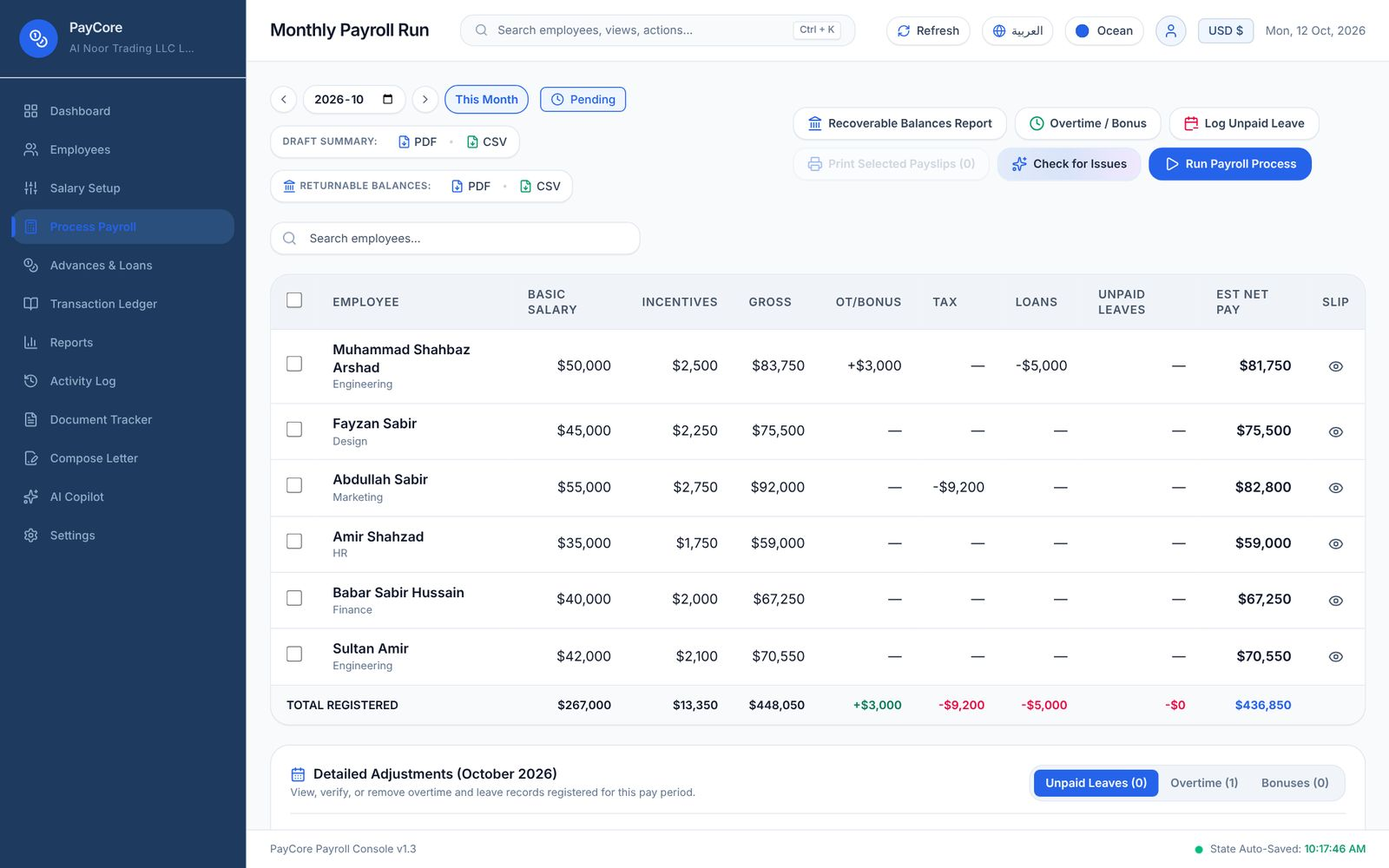
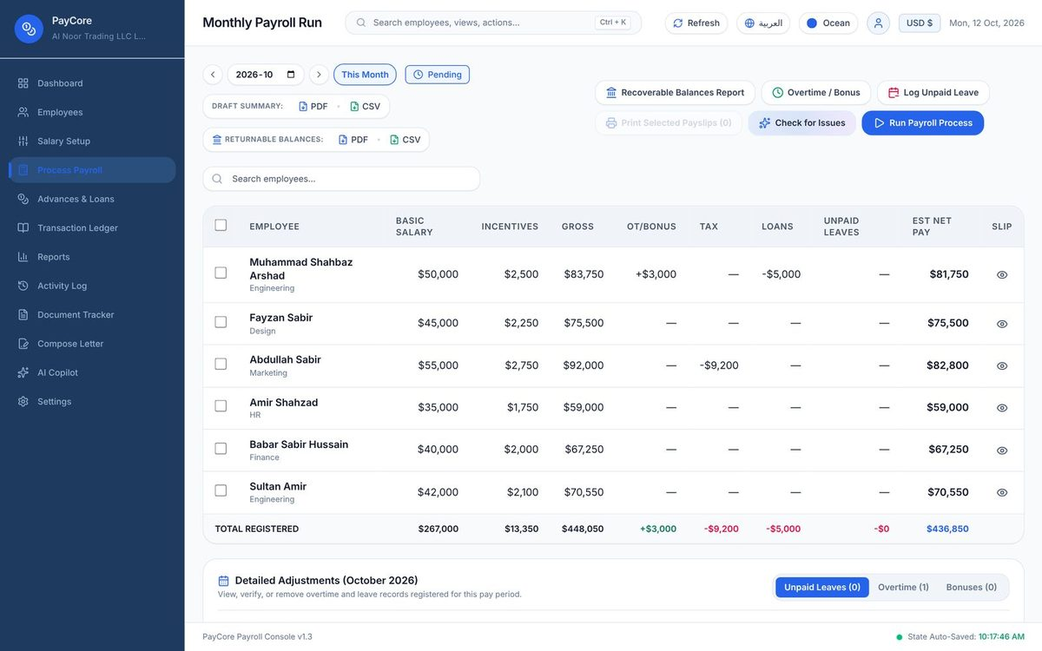
SEO and accessibility fixes from site audit
- Headline words no longer run together in the page text
- Shorter meta description (142 chars) and 'offline payroll' in visible copy
- Stronger colour contrast on stats and tags
- Proper table roles on the comparison section
- Screenshots resized to 1200px (about 40% smaller)

Claude-Session: https://claude.ai/code/session_019S9mUapGrVUUrH4j8TmuQz

diff --git a/index.html b/index.html
@@ -4,7 +4,7 @@
 <meta charset="utf-8">
 <meta name="viewport" content="width=device-width, initial-scale=1, viewport-fit=cover">
 <title>PayCore – Offline Payroll Software for Windows | One-Time License</title>
-<meta name="description" content="PayCore is payroll software for Windows with a one-time license. Calculate salaries, loans and payslips for unlimited employees. Works offline, with full Arabic support.">
+<meta name="description" content="Offline payroll software for Windows with a one-time license. Salaries, loans and payslips for unlimited employees, with full Arabic support.">
 <meta name="robots" content="index, follow, max-image-preview:large">
 <link rel="canonical" href="https://paycoresalarysystem.com/">
 <meta name="theme-color" content="#2563eb">
@@ -15,7 +15,7 @@
 <meta property="og:type" content="website">
 <meta property="og:site_name" content="PayCore Payroll">
 <meta property="og:title" content="PayCore: payroll software without the monthly bill">
-<meta property="og:description" content="PayCore is payroll software for Windows with a one-time license. Calculate salaries, loans and payslips for unlimited employees. Works offline, with full Arabic support.">
+<meta property="og:description" content="Offline payroll software for Windows with a one-time license. Salaries, loans and payslips for unlimited employees, with full Arabic support.">
 <meta property="og:url" content="https://paycoresalarysystem.com/">
 <meta property="og:image" content="https://paycoresalarysystem.com/og-image.png">
 <meta property="og:image:width" content="1200">
@@ -24,7 +24,7 @@
 <meta property="og:locale" content="en_US">
 <meta name="twitter:card" content="summary_large_image">
 <meta name="twitter:title" content="PayCore: payroll software without the monthly bill">
-<meta name="twitter:description" content="PayCore is payroll software for Windows with a one-time license. Calculate salaries, loans and payslips for unlimited employees. Works offline, with full Arabic support.">
+<meta name="twitter:description" content="Offline payroll software for Windows with a one-time license. Salaries, loans and payslips for unlimited employees, with full Arabic support.">
 <meta name="twitter:image" content="https://paycoresalarysystem.com/og-image.png">
 
 <link rel="preload" as="image" href="images/paycore-payroll-dashboard.jpg">
@@ -43,7 +43,7 @@
    "@type": "SoftwareApplication",
    "@id": "https://paycoresalarysystem.com/#app",
    "name": "PayCore Payroll",
-   "description": "PayCore is payroll software for Windows with a one-time license. Calculate salaries, loans and payslips for unlimited employees. Works offline, with full Arabic support.",
+   "description": "Offline payroll software for Windows with a one-time license. Salaries, loans and payslips for unlimited employees, with full Arabic support.",
    "url": "https://paycoresalarysystem.com/",
    "applicationCategory": "BusinessApplication",
    "applicationSubCategory": "Payroll software",
@@ -176,7 +176,7 @@ h3{font-size:20px;font-weight:800;letter-spacing:-.01em}
 p{margin:0}
 .grad-text{background:var(--grad);background-size:200% auto;-webkit-background-clip:text;background-clip:text;color:transparent;animation:sheen 6s linear infinite}
 @keyframes sheen{to{background-position:200% center}}
-.eyebrow{display:inline-flex;align-items:center;gap:8px;font:600 13px/1 var(--f-mono);letter-spacing:.1em;text-transform:uppercase;color:var(--blue);background:#e8efff;border:1px solid #d3e0ff;padding:8px 12px;border-radius:999px;justify-self:start}
+.eyebrow{display:inline-flex;align-items:center;gap:8px;font:600 13px/1 var(--f-mono);letter-spacing:.1em;text-transform:uppercase;color:#1d4ed8;background:#e8efff;border:1px solid #d3e0ff;padding:8px 12px;border-radius:999px;justify-self:start}
 .eyebrow i{width:7px;height:7px;border-radius:50%;background:var(--mint);box-shadow:0 0 0 0 rgba(16,185,129,.6);animation:ping 2s infinite}
 @keyframes ping{70%{box-shadow:0 0 0 8px rgba(16,185,129,0)}100%{box-shadow:0 0 0 0 rgba(16,185,129,0)}}
 .lede{color:var(--muted);font-size:19px;max-width:58ch}
@@ -278,7 +278,7 @@ p{margin:0}
 @media (max-width:820px){.stats{grid-template-columns:repeat(2,minmax(0,1fr))}}
 .stat{background:#fff;border:1px solid var(--line);border-radius:var(--r);padding:24px;display:grid;gap:6px;min-width:0}
 .stat .num{font:800 clamp(38px,5vw,56px)/1 var(--f-display);letter-spacing:-.03em;font-variant-numeric:tabular-nums}
-.stat:nth-child(1) .num{color:var(--mint)}.stat:nth-child(2) .num{color:var(--blue)}.stat:nth-child(3) .num{color:#0ea5e9}.stat:nth-child(4) .num{color:var(--sun)}
+.stat:nth-child(1) .num{color:#047857}.stat:nth-child(2) .num{color:var(--blue)}.stat:nth-child(3) .num{color:#0369a1}.stat:nth-child(4) .num{color:#b45309}
 .stat p{color:var(--muted);font-size:15px;font-weight:500}
 
 section{padding-block:100px}
@@ -324,8 +324,8 @@ section{padding-block:100px}
 @property --a{syntax:"<angle>";inherits:false;initial-value:0deg}
 @keyframes spin{to{--a:360deg}}
 .dl-in{background:#fff;border-radius:22px;padding:30px;display:grid;gap:14px;align-content:start;height:100%}
-.dl .tag{justify-self:start;font:600 12px/1 var(--f-mono);letter-spacing:.08em;text-transform:uppercase;padding:7px 10px;border-radius:999px;background:#e8efff;color:var(--blue)}
-.dl:not(.rec) .tag{background:#ecfdf5;color:var(--mint)}
+.dl .tag{justify-self:start;font:600 12px/1 var(--f-mono);letter-spacing:.08em;text-transform:uppercase;padding:7px 10px;border-radius:999px;background:#e8efff;color:#1d4ed8}
+.dl:not(.rec) .tag{background:#ecfdf5;color:#047857}
 .dl .top{display:flex;align-items:center;gap:14px}
 .dl .win{width:50px;height:50px;border-radius:14px;display:grid;place-items:center;background:#eef4ff}
 .dl .win svg{width:26px;height:26px}
@@ -396,6 +396,7 @@ section{padding-block:100px}
 .final .btn.btn-ghost-w:hover{background:rgba(255,255,255,.24);transform:translateY(-2px)}
 .btn-soft svg{width:18px;height:18px}
 /* comparison */
+.sr{position:absolute;width:1px;height:1px;overflow:hidden;clip:rect(0 0 0 0);white-space:nowrap}
 #compare{padding-top:30px}
 .cmp{background:#fff;border:1px solid var(--line);border-radius:24px;overflow:hidden;box-shadow:0 30px 60px -40px rgba(37,99,235,.4)}
 .cmp-row{display:grid;grid-template-columns:1.1fr 1fr 1fr;align-items:center;border-top:1px solid var(--line);transition:background .2s}
@@ -564,9 +565,9 @@ main,header,footer{position:relative;z-index:1}
   <div class="wrap">
     <div class="hero-grid">
       <div>
-        <span class="eyebrow"><i></i>Payroll software for Windows</span>
-        <h1><span class="line">Payroll software</span><span class="line grad-text">without the</span><span class="line"><span class="grad-text uline">monthly bill.<svg class="squig" viewBox="0 0 300 20" preserveAspectRatio="none" aria-hidden="true"><path d="M3 14 C 40 4, 70 4, 100 12 S 160 20, 200 10 S 260 2, 297 9"/></svg></span></span></h1>
-        <p class="lede">PayCore calculates salaries, overtime, loans and end-of-service for your entire team, and produces payslips in one step. Buy a single license and use it for every employee your business will ever have.</p>
+        <span class="eyebrow"><i></i>Offline payroll software for Windows</span>
+        <h1><span class="line">Payroll software</span> <span class="line grad-text">without the</span> <span class="line"><span class="grad-text uline">monthly bill.<svg class="squig" viewBox="0 0 300 20" preserveAspectRatio="none" aria-hidden="true"><path d="M3 14 C 40 4, 70 4, 100 12 S 160 20, 200 10 S 260 2, 297 9"/></svg></span></span></h1>
+        <p class="lede">PayCore is offline payroll software that calculates salaries, overtime, loans and end-of-service for your entire team, and produces payslips in one step. Buy a single license and use it for every employee your business will ever have.</p>
         <div class="hero-actions">
           <a class="btn btn-primary" href="#download"><svg viewBox="0 0 24 24" fill="none" stroke="currentColor" stroke-width="2.4" stroke-linecap="round" stroke-linejoin="round"><path d="M12 3v12m0 0 5-5m-5 5-5-5M4 20h16"/></svg>Download for Windows</a>
           <a class="btn btn-soft" href="#demo"><svg viewBox="0 0 24 24" fill="none" stroke="currentColor" stroke-width="2.2" stroke-linecap="round" stroke-linejoin="round"><rect x="2.5" y="6" width="13" height="12" rx="2.5"/><path d="m15.5 10.5 6-3.5v10l-6-3.5"/></svg>Book a free demo</a>
@@ -607,7 +608,7 @@ main,header,footer{position:relative;z-index:1}
 <div class="wrap showcase">
   <div class="frame" id="tilt">
     <div class="bar" aria-hidden="true"><i></i><i></i><i></i></div>
-    <div class="scr"><img src="images/paycore-payroll-dashboard.jpg" alt="PayCore dashboard showing monthly salary base, active employees, outstanding loans and salaries by department" width="1600" height="1000"></div>
+    <div class="scr"><img src="images/paycore-payroll-dashboard.jpg" alt="PayCore dashboard showing monthly salary base, active employees, outstanding loans and salaries by department" width="1200" height="750"></div>
   </div>
 
   <div class="stats">
@@ -639,7 +640,7 @@ main,header,footer{position:relative;z-index:1}
       <div class="pic rv">
         <div class="frame" style="--rx:0deg">
           <div class="bar" aria-hidden="true"><i></i><i></i><i></i></div>
-          <div class="scr"><img src="images/paycore-monthly-payroll-run.jpg" alt="PayCore monthly payroll run listing each employee's basic salary, incentives, gross, overtime, tax, loan deductions and net pay" width="1600" height="1000" loading="lazy"></div>
+          <div class="scr"><img src="images/paycore-monthly-payroll-run.jpg" alt="PayCore monthly payroll run listing each employee's basic salary, incentives, gross, overtime, tax, loan deductions and net pay" width="1200" height="750" loading="lazy"></div>
         </div>
         <div class="badge"><span class="ic g3"><svg viewBox="0 0 24 24" fill="none" stroke="currentColor" stroke-width="2.2" stroke-linecap="round" stroke-linejoin="round"><rect x="5" y="11" width="14" height="9" rx="2"/><path d="M8 11V8a4 4 0 0 1 8 0v3"/></svg></span><span><b>PIN protected</b><small>Access only for authorised users</small></span></div>
       </div>
@@ -664,8 +665,8 @@ main,header,footer{position:relative;z-index:1}
       <p class="lede">Subscription payroll tools charge for every employee, every month. Here is how PayCore compares.</p>
     </div>
     <div class="cmp rv" role="table" aria-label="PayCore compared with subscription payroll software">
-      <div class="cmp-row cmp-head"><span></span><span class="cmp-p"><b class="cmp-brand"><span class="mark" aria-hidden="true"><svg viewBox="0 0 24 24" fill="none" stroke="#fff" stroke-width="2.6" stroke-linecap="round"><circle cx="9" cy="9" r="5.5"/><circle cx="15" cy="15" r="5.5"/></svg></span>PayCore</b></span><span class="cmp-s"><b>Subscription payroll</b></span></div>
-      <div class="cmp-row"><span class="cmp-k">Pricing</span><span class="cmp-p"><i class="y"><svg viewBox="0 0 24 24" fill="none" stroke="currentColor" stroke-width="2.6" stroke-linecap="round" stroke-linejoin="round"><path d="m5 12 5 5 9-10"/></svg></i>One-time license</span><span class="cmp-s"><i class="n"><svg viewBox="0 0 24 24" fill="none" stroke="currentColor" stroke-width="2.4" stroke-linecap="round"><path d="M7 7l10 10M17 7 7 17"/></svg></i>Monthly or yearly subscription</span></div><div class="cmp-row"><span class="cmp-k">Cost as you hire</span><span class="cmp-p"><i class="y"><svg viewBox="0 0 24 24" fill="none" stroke="currentColor" stroke-width="2.6" stroke-linecap="round" stroke-linejoin="round"><path d="m5 12 5 5 9-10"/></svg></i>Stays the same</span><span class="cmp-s"><i class="n"><svg viewBox="0 0 24 24" fill="none" stroke="currentColor" stroke-width="2.4" stroke-linecap="round"><path d="M7 7l10 10M17 7 7 17"/></svg></i>Rises with every employee</span></div><div class="cmp-row"><span class="cmp-k">Where your data is stored</span><span class="cmp-p"><i class="y"><svg viewBox="0 0 24 24" fill="none" stroke="currentColor" stroke-width="2.6" stroke-linecap="round" stroke-linejoin="round"><path d="m5 12 5 5 9-10"/></svg></i>Your own computer</span><span class="cmp-s"><i class="n"><svg viewBox="0 0 24 24" fill="none" stroke="currentColor" stroke-width="2.4" stroke-linecap="round"><path d="M7 7l10 10M17 7 7 17"/></svg></i>The provider's cloud servers</span></div><div class="cmp-row"><span class="cmp-k">Internet connection</span><span class="cmp-p"><i class="y"><svg viewBox="0 0 24 24" fill="none" stroke="currentColor" stroke-width="2.6" stroke-linecap="round" stroke-linejoin="round"><path d="m5 12 5 5 9-10"/></svg></i>Not required</span><span class="cmp-s"><i class="n"><svg viewBox="0 0 24 24" fill="none" stroke="currentColor" stroke-width="2.4" stroke-linecap="round"><path d="M7 7l10 10M17 7 7 17"/></svg></i>Required</span></div><div class="cmp-row"><span class="cmp-k">Arabic interface</span><span class="cmp-p"><i class="y"><svg viewBox="0 0 24 24" fill="none" stroke="currentColor" stroke-width="2.6" stroke-linecap="round" stroke-linejoin="round"><path d="m5 12 5 5 9-10"/></svg></i>Included</span><span class="cmp-s"><i class="n"><svg viewBox="0 0 24 24" fill="none" stroke="currentColor" stroke-width="2.4" stroke-linecap="round"><path d="M7 7l10 10M17 7 7 17"/></svg></i>Varies by provider</span></div><div class="cmp-row"><span class="cmp-k">Custom features for your company</span><span class="cmp-p"><i class="y"><svg viewBox="0 0 24 24" fill="none" stroke="currentColor" stroke-width="2.6" stroke-linecap="round" stroke-linejoin="round"><path d="m5 12 5 5 9-10"/></svg></i>Available on request</span><span class="cmp-s"><i class="n"><svg viewBox="0 0 24 24" fill="none" stroke="currentColor" stroke-width="2.4" stroke-linecap="round"><path d="M7 7l10 10M17 7 7 17"/></svg></i>Rarely offered</span></div>
+      <div class="cmp-row cmp-head" role="row"><span role="columnheader"><span class="sr">Feature</span></span><span class="cmp-p" role="columnheader"><b class="cmp-brand"><span class="mark" aria-hidden="true"><svg viewBox="0 0 24 24" fill="none" stroke="#fff" stroke-width="2.6" stroke-linecap="round"><circle cx="9" cy="9" r="5.5"/><circle cx="15" cy="15" r="5.5"/></svg></span>PayCore</b></span><span class="cmp-s" role="columnheader"><b>Subscription payroll</b></span></div>
+      <div class="cmp-row" role="row"><span class="cmp-k" role="rowheader">Pricing</span><span class="cmp-p" role="cell"><i class="y" aria-hidden="true"><svg viewBox="0 0 24 24" fill="none" stroke="currentColor" stroke-width="2.6" stroke-linecap="round" stroke-linejoin="round"><path d="m5 12 5 5 9-10"/></svg></i>One-time license</span><span class="cmp-s" role="cell"><i class="n" aria-hidden="true"><svg viewBox="0 0 24 24" fill="none" stroke="currentColor" stroke-width="2.4" stroke-linecap="round"><path d="M7 7l10 10M17 7 7 17"/></svg></i>Monthly or yearly subscription</span></div><div class="cmp-row" role="row"><span class="cmp-k" role="rowheader">Cost as you hire</span><span class="cmp-p" role="cell"><i class="y" aria-hidden="true"><svg viewBox="0 0 24 24" fill="none" stroke="currentColor" stroke-width="2.6" stroke-linecap="round" stroke-linejoin="round"><path d="m5 12 5 5 9-10"/></svg></i>Stays the same</span><span class="cmp-s" role="cell"><i class="n" aria-hidden="true"><svg viewBox="0 0 24 24" fill="none" stroke="currentColor" stroke-width="2.4" stroke-linecap="round"><path d="M7 7l10 10M17 7 7 17"/></svg></i>Rises with every employee</span></div><div class="cmp-row" role="row"><span class="cmp-k" role="rowheader">Where your data is stored</span><span class="cmp-p" role="cell"><i class="y" aria-hidden="true"><svg viewBox="0 0 24 24" fill="none" stroke="currentColor" stroke-width="2.6" stroke-linecap="round" stroke-linejoin="round"><path d="m5 12 5 5 9-10"/></svg></i>Your own computer</span><span class="cmp-s" role="cell"><i class="n" aria-hidden="true"><svg viewBox="0 0 24 24" fill="none" stroke="currentColor" stroke-width="2.4" stroke-linecap="round"><path d="M7 7l10 10M17 7 7 17"/></svg></i>The provider's cloud servers</span></div><div class="cmp-row" role="row"><span class="cmp-k" role="rowheader">Internet connection</span><span class="cmp-p" role="cell"><i class="y" aria-hidden="true"><svg viewBox="0 0 24 24" fill="none" stroke="currentColor" stroke-width="2.6" stroke-linecap="round" stroke-linejoin="round"><path d="m5 12 5 5 9-10"/></svg></i>Not required</span><span class="cmp-s" role="cell"><i class="n" aria-hidden="true"><svg viewBox="0 0 24 24" fill="none" stroke="currentColor" stroke-width="2.4" stroke-linecap="round"><path d="M7 7l10 10M17 7 7 17"/></svg></i>Required</span></div><div class="cmp-row" role="row"><span class="cmp-k" role="rowheader">Arabic interface</span><span class="cmp-p" role="cell"><i class="y" aria-hidden="true"><svg viewBox="0 0 24 24" fill="none" stroke="currentColor" stroke-width="2.6" stroke-linecap="round" stroke-linejoin="round"><path d="m5 12 5 5 9-10"/></svg></i>Included</span><span class="cmp-s" role="cell"><i class="n" aria-hidden="true"><svg viewBox="0 0 24 24" fill="none" stroke="currentColor" stroke-width="2.4" stroke-linecap="round"><path d="M7 7l10 10M17 7 7 17"/></svg></i>Varies by provider</span></div><div class="cmp-row" role="row"><span class="cmp-k" role="rowheader">Custom features for your company</span><span class="cmp-p" role="cell"><i class="y" aria-hidden="true"><svg viewBox="0 0 24 24" fill="none" stroke="currentColor" stroke-width="2.6" stroke-linecap="round" stroke-linejoin="round"><path d="m5 12 5 5 9-10"/></svg></i>Available on request</span><span class="cmp-s" role="cell"><i class="n" aria-hidden="true"><svg viewBox="0 0 24 24" fill="none" stroke="currentColor" stroke-width="2.4" stroke-linecap="round"><path d="M7 7l10 10M17 7 7 17"/></svg></i>Rarely offered</span></div>
     </div>
   </div>
 </section>

diff --git a/_source/site-source.html b/_source/site-source.html
@@ -37,7 +37,7 @@ h3{font-size:20px;font-weight:800;letter-spacing:-.01em}
 p{margin:0}
 .grad-text{background:var(--grad);background-size:200% auto;-webkit-background-clip:text;background-clip:text;color:transparent;animation:sheen 6s linear infinite}
 @keyframes sheen{to{background-position:200% center}}
-.eyebrow{display:inline-flex;align-items:center;gap:8px;font:600 13px/1 var(--f-mono);letter-spacing:.1em;text-transform:uppercase;color:var(--blue);background:#e8efff;border:1px solid #d3e0ff;padding:8px 12px;border-radius:999px;justify-self:start}
+.eyebrow{display:inline-flex;align-items:center;gap:8px;font:600 13px/1 var(--f-mono);letter-spacing:.1em;text-transform:uppercase;color:#1d4ed8;background:#e8efff;border:1px solid #d3e0ff;padding:8px 12px;border-radius:999px;justify-self:start}
 .eyebrow i{width:7px;height:7px;border-radius:50%;background:var(--mint);box-shadow:0 0 0 0 rgba(16,185,129,.6);animation:ping 2s infinite}
 @keyframes ping{70%{box-shadow:0 0 0 8px rgba(16,185,129,0)}100%{box-shadow:0 0 0 0 rgba(16,185,129,0)}}
 .lede{color:var(--muted);font-size:19px;max-width:58ch}
@@ -139,7 +139,7 @@ p{margin:0}
 @media (max-width:820px){.stats{grid-template-columns:repeat(2,minmax(0,1fr))}}
 .stat{background:#fff;border:1px solid var(--line);border-radius:var(--r);padding:24px;display:grid;gap:6px;min-width:0}
 .stat .num{font:800 clamp(38px,5vw,56px)/1 var(--f-display);letter-spacing:-.03em;font-variant-numeric:tabular-nums}
-.stat:nth-child(1) .num{color:var(--mint)}.stat:nth-child(2) .num{color:var(--blue)}.stat:nth-child(3) .num{color:#0ea5e9}.stat:nth-child(4) .num{color:var(--sun)}
+.stat:nth-child(1) .num{color:#047857}.stat:nth-child(2) .num{color:var(--blue)}.stat:nth-child(3) .num{color:#0369a1}.stat:nth-child(4) .num{color:#b45309}
 .stat p{color:var(--muted);font-size:15px;font-weight:500}
 
 section{padding-block:100px}
@@ -185,8 +185,8 @@ section{padding-block:100px}
 @property --a{syntax:"<angle>";inherits:false;initial-value:0deg}
 @keyframes spin{to{--a:360deg}}
 .dl-in{background:#fff;border-radius:22px;padding:30px;display:grid;gap:14px;align-content:start;height:100%}
-.dl .tag{justify-self:start;font:600 12px/1 var(--f-mono);letter-spacing:.08em;text-transform:uppercase;padding:7px 10px;border-radius:999px;background:#e8efff;color:var(--blue)}
-.dl:not(.rec) .tag{background:#ecfdf5;color:var(--mint)}
+.dl .tag{justify-self:start;font:600 12px/1 var(--f-mono);letter-spacing:.08em;text-transform:uppercase;padding:7px 10px;border-radius:999px;background:#e8efff;color:#1d4ed8}
+.dl:not(.rec) .tag{background:#ecfdf5;color:#047857}
 .dl .top{display:flex;align-items:center;gap:14px}
 .dl .win{width:50px;height:50px;border-radius:14px;display:grid;place-items:center;background:#eef4ff}
 .dl .win svg{width:26px;height:26px}
@@ -257,6 +257,7 @@ section{padding-block:100px}
 .final .btn.btn-ghost-w:hover{background:rgba(255,255,255,.24);transform:translateY(-2px)}
 .btn-soft svg{width:18px;height:18px}
 /* comparison */
+.sr{position:absolute;width:1px;height:1px;overflow:hidden;clip:rect(0 0 0 0);white-space:nowrap}
 #compare{padding-top:30px}
 .cmp{background:#fff;border:1px solid var(--line);border-radius:24px;overflow:hidden;box-shadow:0 30px 60px -40px rgba(37,99,235,.4)}
 .cmp-row{display:grid;grid-template-columns:1.1fr 1fr 1fr;align-items:center;border-top:1px solid var(--line);transition:background .2s}
@@ -424,9 +425,9 @@ main,header,footer{position:relative;z-index:1}
   <div class="wrap">
     <div class="hero-grid">
       <div>
-        <span class="eyebrow"><i></i>Payroll software for Windows</span>
-        <h1><span class="line">Payroll software</span><span class="line grad-text">without the</span><span class="line"><span class="grad-text uline">monthly bill.<svg class="squig" viewBox="0 0 300 20" preserveAspectRatio="none" aria-hidden="true"><path d="M3 14 C 40 4, 70 4, 100 12 S 160 20, 200 10 S 260 2, 297 9"/></svg></span></span></h1>
-        <p class="lede">PayCore calculates salaries, overtime, loans and end-of-service for your entire team, and produces payslips in one step. Buy a single license and use it for every employee your business will ever have.</p>
+        <span class="eyebrow"><i></i>Offline payroll software for Windows</span>
+        <h1><span class="line">Payroll software</span> <span class="line grad-text">without the</span> <span class="line"><span class="grad-text uline">monthly bill.<svg class="squig" viewBox="0 0 300 20" preserveAspectRatio="none" aria-hidden="true"><path d="M3 14 C 40 4, 70 4, 100 12 S 160 20, 200 10 S 260 2, 297 9"/></svg></span></span></h1>
+        <p class="lede">PayCore is offline payroll software that calculates salaries, overtime, loans and end-of-service for your entire team, and produces payslips in one step. Buy a single license and use it for every employee your business will ever have.</p>
         <div class="hero-actions">
           <a class="btn btn-primary" href="#download"><svg viewBox="0 0 24 24" fill="none" stroke="currentColor" stroke-width="2.4" stroke-linecap="round" stroke-linejoin="round"><path d="M12 3v12m0 0 5-5m-5 5-5-5M4 20h16"/></svg>Download for Windows</a>
           <a class="btn btn-soft" href="#demo"><svg viewBox="0 0 24 24" fill="none" stroke="currentColor" stroke-width="2.2" stroke-linecap="round" stroke-linejoin="round"><rect x="2.5" y="6" width="13" height="12" rx="2.5"/><path d="m15.5 10.5 6-3.5v10l-6-3.5"/></svg>Book a free demo</a>
@@ -467,7 +468,7 @@ main,header,footer{position:relative;z-index:1}
 <div class="wrap showcase">
   <div class="frame" id="tilt">
     <div class="bar" aria-hidden="true"><i></i><i></i><i></i></div>
-    <div class="scr"><img src="__DASHBOARD__" alt="PayCore dashboard showing monthly salary base, active employees, outstanding loans and salaries by department" width="1600" height="1000"></div>
+    <div class="scr"><img src="__DASHBOARD__" alt="PayCore dashboard showing monthly salary base, active employees, outstanding loans and salaries by department" width="1200" height="750"></div>
   </div>
 
   <div class="stats">
@@ -499,7 +500,7 @@ main,header,footer{position:relative;z-index:1}
       <div class="pic rv">
         <div class="frame" style="--rx:0deg">
           <div class="bar" aria-hidden="true"><i></i><i></i><i></i></div>
-          <div class="scr"><img src="__PAYROLL__" alt="PayCore monthly payroll run listing each employee's basic salary, incentives, gross, overtime, tax, loan deductions and net pay" width="1600" height="1000" loading="lazy"></div>
+          <div class="scr"><img src="__PAYROLL__" alt="PayCore monthly payroll run listing each employee's basic salary, incentives, gross, overtime, tax, loan deductions and net pay" width="1200" height="750" loading="lazy"></div>
         </div>
         <div class="badge"><span class="ic g3"><svg viewBox="0 0 24 24" fill="none" stroke="currentColor" stroke-width="2.2" stroke-linecap="round" stroke-linejoin="round"><rect x="5" y="11" width="14" height="9" rx="2"/><path d="M8 11V8a4 4 0 0 1 8 0v3"/></svg></span><span><b>PIN protected</b><small>Access only for authorised users</small></span></div>
       </div>
@@ -524,8 +525,8 @@ main,header,footer{position:relative;z-index:1}
       <p class="lede">Subscription payroll tools charge for every employee, every month. Here is how PayCore compares.</p>
     </div>
     <div class="cmp rv" role="table" aria-label="PayCore compared with subscription payroll software">
-      <div class="cmp-row cmp-head"><span></span><span class="cmp-p"><b class="cmp-brand"><span class="mark" aria-hidden="true"><svg viewBox="0 0 24 24" fill="none" stroke="#fff" stroke-width="2.6" stroke-linecap="round"><circle cx="9" cy="9" r="5.5"/><circle cx="15" cy="15" r="5.5"/></svg></span>PayCore</b></span><span class="cmp-s"><b>Subscription payroll</b></span></div>
-      <div class="cmp-row"><span class="cmp-k">Pricing</span><span class="cmp-p"><i class="y"><svg viewBox="0 0 24 24" fill="none" stroke="currentColor" stroke-width="2.6" stroke-linecap="round" stroke-linejoin="round"><path d="m5 12 5 5 9-10"/></svg></i>One-time license</span><span class="cmp-s"><i class="n"><svg viewBox="0 0 24 24" fill="none" stroke="currentColor" stroke-width="2.4" stroke-linecap="round"><path d="M7 7l10 10M17 7 7 17"/></svg></i>Monthly or yearly subscription</span></div><div class="cmp-row"><span class="cmp-k">Cost as you hire</span><span class="cmp-p"><i class="y"><svg viewBox="0 0 24 24" fill="none" stroke="currentColor" stroke-width="2.6" stroke-linecap="round" stroke-linejoin="round"><path d="m5 12 5 5 9-10"/></svg></i>Stays the same</span><span class="cmp-s"><i class="n"><svg viewBox="0 0 24 24" fill="none" stroke="currentColor" stroke-width="2.4" stroke-linecap="round"><path d="M7 7l10 10M17 7 7 17"/></svg></i>Rises with every employee</span></div><div class="cmp-row"><span class="cmp-k">Where your data is stored</span><span class="cmp-p"><i class="y"><svg viewBox="0 0 24 24" fill="none" stroke="currentColor" stroke-width="2.6" stroke-linecap="round" stroke-linejoin="round"><path d="m5 12 5 5 9-10"/></svg></i>Your own computer</span><span class="cmp-s"><i class="n"><svg viewBox="0 0 24 24" fill="none" stroke="currentColor" stroke-width="2.4" stroke-linecap="round"><path d="M7 7l10 10M17 7 7 17"/></svg></i>The provider's cloud servers</span></div><div class="cmp-row"><span class="cmp-k">Internet connection</span><span class="cmp-p"><i class="y"><svg viewBox="0 0 24 24" fill="none" stroke="currentColor" stroke-width="2.6" stroke-linecap="round" stroke-linejoin="round"><path d="m5 12 5 5 9-10"/></svg></i>Not required</span><span class="cmp-s"><i class="n"><svg viewBox="0 0 24 24" fill="none" stroke="currentColor" stroke-width="2.4" stroke-linecap="round"><path d="M7 7l10 10M17 7 7 17"/></svg></i>Required</span></div><div class="cmp-row"><span class="cmp-k">Arabic interface</span><span class="cmp-p"><i class="y"><svg viewBox="0 0 24 24" fill="none" stroke="currentColor" stroke-width="2.6" stroke-linecap="round" stroke-linejoin="round"><path d="m5 12 5 5 9-10"/></svg></i>Included</span><span class="cmp-s"><i class="n"><svg viewBox="0 0 24 24" fill="none" stroke="currentColor" stroke-width="2.4" stroke-linecap="round"><path d="M7 7l10 10M17 7 7 17"/></svg></i>Varies by provider</span></div><div class="cmp-row"><span class="cmp-k">Custom features for your company</span><span class="cmp-p"><i class="y"><svg viewBox="0 0 24 24" fill="none" stroke="currentColor" stroke-width="2.6" stroke-linecap="round" stroke-linejoin="round"><path d="m5 12 5 5 9-10"/></svg></i>Available on request</span><span class="cmp-s"><i class="n"><svg viewBox="0 0 24 24" fill="none" stroke="currentColor" stroke-width="2.4" stroke-linecap="round"><path d="M7 7l10 10M17 7 7 17"/></svg></i>Rarely offered</span></div>
+      <div class="cmp-row cmp-head" role="row"><span role="columnheader"><span class="sr">Feature</span></span><span class="cmp-p" role="columnheader"><b class="cmp-brand"><span class="mark" aria-hidden="true"><svg viewBox="0 0 24 24" fill="none" stroke="#fff" stroke-width="2.6" stroke-linecap="round"><circle cx="9" cy="9" r="5.5"/><circle cx="15" cy="15" r="5.5"/></svg></span>PayCore</b></span><span class="cmp-s" role="columnheader"><b>Subscription payroll</b></span></div>
+      <div class="cmp-row" role="row"><span class="cmp-k" role="rowheader">Pricing</span><span class="cmp-p" role="cell"><i class="y" aria-hidden="true"><svg viewBox="0 0 24 24" fill="none" stroke="currentColor" stroke-width="2.6" stroke-linecap="round" stroke-linejoin="round"><path d="m5 12 5 5 9-10"/></svg></i>One-time license</span><span class="cmp-s" role="cell"><i class="n" aria-hidden="true"><svg viewBox="0 0 24 24" fill="none" stroke="currentColor" stroke-width="2.4" stroke-linecap="round"><path d="M7 7l10 10M17 7 7 17"/></svg></i>Monthly or yearly subscription</span></div><div class="cmp-row" role="row"><span class="cmp-k" role="rowheader">Cost as you hire</span><span class="cmp-p" role="cell"><i class="y" aria-hidden="true"><svg viewBox="0 0 24 24" fill="none" stroke="currentColor" stroke-width="2.6" stroke-linecap="round" stroke-linejoin="round"><path d="m5 12 5 5 9-10"/></svg></i>Stays the same</span><span class="cmp-s" role="cell"><i class="n" aria-hidden="true"><svg viewBox="0 0 24 24" fill="none" stroke="currentColor" stroke-width="2.4" stroke-linecap="round"><path d="M7 7l10 10M17 7 7 17"/></svg></i>Rises with every employee</span></div><div class="cmp-row" role="row"><span class="cmp-k" role="rowheader">Where your data is stored</span><span class="cmp-p" role="cell"><i class="y" aria-hidden="true"><svg viewBox="0 0 24 24" fill="none" stroke="currentColor" stroke-width="2.6" stroke-linecap="round" stroke-linejoin="round"><path d="m5 12 5 5 9-10"/></svg></i>Your own computer</span><span class="cmp-s" role="cell"><i class="n" aria-hidden="true"><svg viewBox="0 0 24 24" fill="none" stroke="currentColor" stroke-width="2.4" stroke-linecap="round"><path d="M7 7l10 10M17 7 7 17"/></svg></i>The provider's cloud servers</span></div><div class="cmp-row" role="row"><span class="cmp-k" role="rowheader">Internet connection</span><span class="cmp-p" role="cell"><i class="y" aria-hidden="true"><svg viewBox="0 0 24 24" fill="none" stroke="currentColor" stroke-width="2.6" stroke-linecap="round" stroke-linejoin="round"><path d="m5 12 5 5 9-10"/></svg></i>Not required</span><span class="cmp-s" role="cell"><i class="n" aria-hidden="true"><svg viewBox="0 0 24 24" fill="none" stroke="currentColor" stroke-width="2.4" stroke-linecap="round"><path d="M7 7l10 10M17 7 7 17"/></svg></i>Required</span></div><div class="cmp-row" role="row"><span class="cmp-k" role="rowheader">Arabic interface</span><span class="cmp-p" role="cell"><i class="y" aria-hidden="true"><svg viewBox="0 0 24 24" fill="none" stroke="currentColor" stroke-width="2.6" stroke-linecap="round" stroke-linejoin="round"><path d="m5 12 5 5 9-10"/></svg></i>Included</span><span class="cmp-s" role="cell"><i class="n" aria-hidden="true"><svg viewBox="0 0 24 24" fill="none" stroke="currentColor" stroke-width="2.4" stroke-linecap="round"><path d="M7 7l10 10M17 7 7 17"/></svg></i>Varies by provider</span></div><div class="cmp-row" role="row"><span class="cmp-k" role="rowheader">Custom features for your company</span><span class="cmp-p" role="cell"><i class="y" aria-hidden="true"><svg viewBox="0 0 24 24" fill="none" stroke="currentColor" stroke-width="2.6" stroke-linecap="round" stroke-linejoin="round"><path d="m5 12 5 5 9-10"/></svg></i>Available on request</span><span class="cmp-s" role="cell"><i class="n" aria-hidden="true"><svg viewBox="0 0 24 24" fill="none" stroke="currentColor" stroke-width="2.4" stroke-linecap="round"><path d="M7 7l10 10M17 7 7 17"/></svg></i>Rarely offered</span></div>
     </div>
   </div>
 </section>

diff --git a/_source/build.py b/_source/build.py
@@ -39,8 +39,8 @@ page = re.sub(r'^<meta name="description"[^>]*>\s*', "", page, count=1)
 head_part, body_part = page.split("</style>", 1)
 
 TITLE = "PayCore – Offline Payroll Software for Windows | One-Time License"
-DESC = ("PayCore is payroll software for Windows with a one-time license. Calculate salaries, loans "
-        "and payslips for unlimited employees. Works offline, with full Arabic support.")
+DESC = ("Offline payroll software for Windows with a one-time license. Salaries, loans and payslips "
+        "for unlimited employees, with full Arabic support.")
 OG_TITLE = "PayCore: payroll software without the monthly bill"
 
 # FAQ schema built from the page's own FAQ, so the two never disagree
